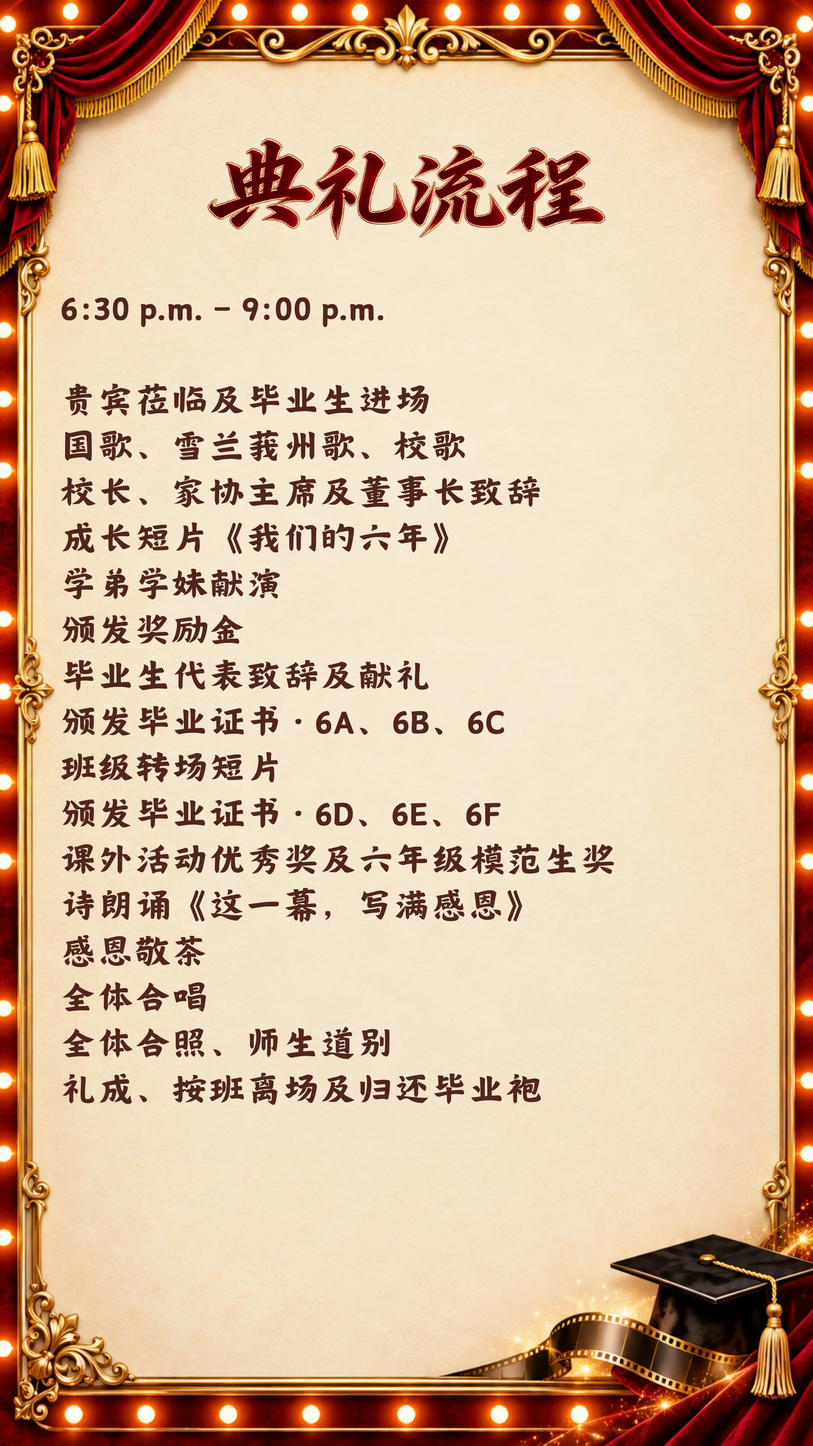
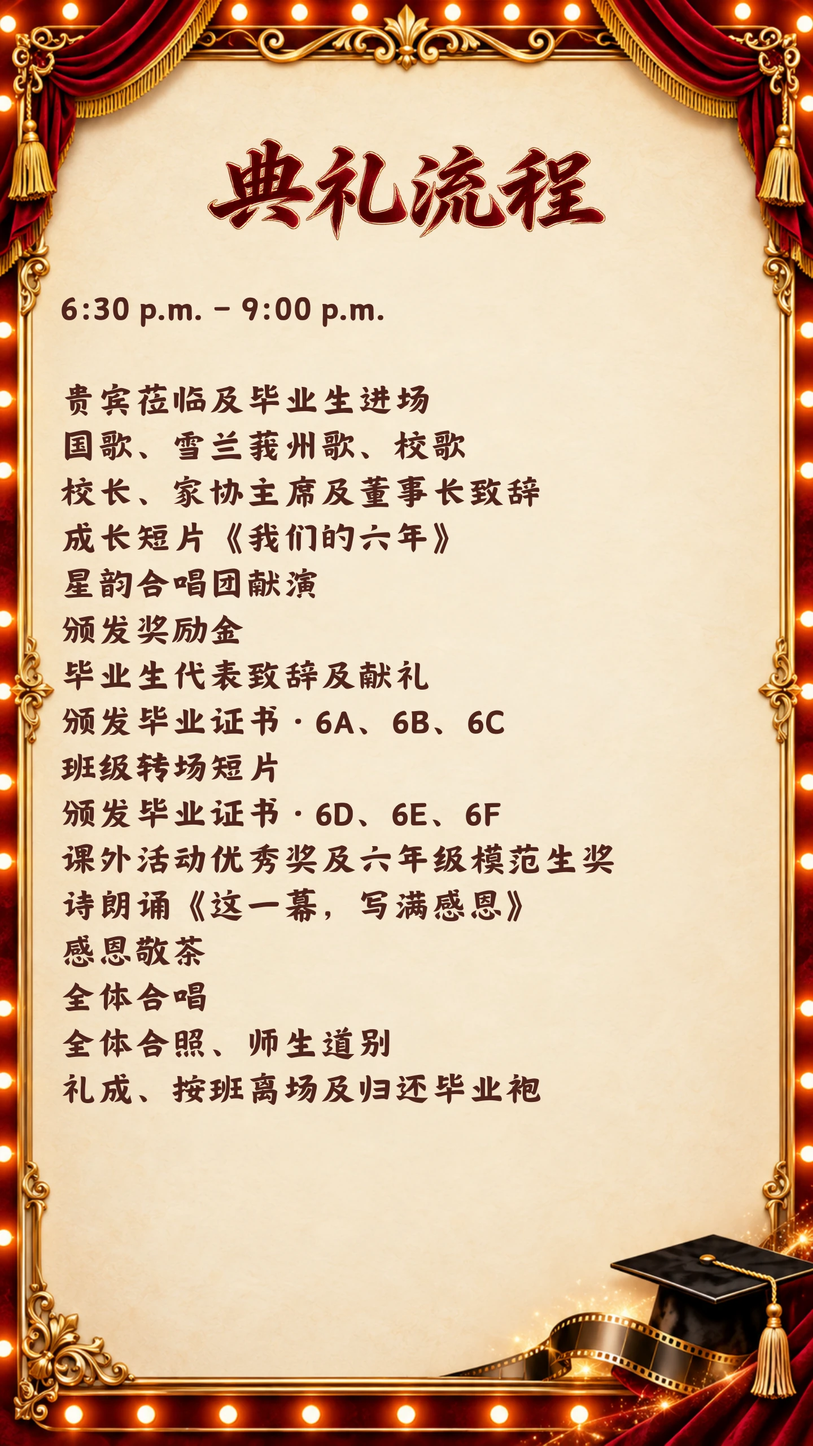
Update the ceremony programme with the choir name

diff --git a/index.html b/index.html
@@ -1,1 +1,1 @@
-<!doctype html><html lang="zh-Hans"><head><meta charset="UTF-8"><meta name="viewport" content="width=device-width,initial-scale=1,viewport-fit=cover"><meta name="theme-color" content="#100b0d"><title>下一幕，出发</title><link rel="stylesheet" href="style.css?v=9"></head><body><main class="stage" aria-label="毕业纪念册"><div id="book"></div><script id="page-data" type="application/json">[{"src": "assets/hq-1-1440.webp", "alt": "封面"}, {"src": "assets/hq-2-1440.webp?v=15", "alt": "典礼流程"}, {"src": "assets/hq-3-1440.webp?v=16", "alt": "6A毕业生名单"}, {"src": "assets/hq-4-1440.webp", "alt": "6B毕业生名单"}, {"src": "assets/hq-5-1440.webp", "alt": "6C毕业生名单"}, {"src": "assets/hq-6-1440.webp", "alt": "6D毕业生名单"}, {"src": "assets/hq-7-1440.webp", "alt": "6E毕业生名单"}, {"src": "assets/hq-8-1440.webp?v=17", "alt": "6F毕业生名单"}, {"src": "assets/hq-9-1440.webp", "alt": "致第七十四届毕业生"}]</script><div class="fx" aria-hidden="true"><svg class="magic" viewBox="0 0 100 178" preserveAspectRatio="none"><defs><filter id="magic-soft"><feGaussianBlur stdDeviation="1.2"/></filter></defs><g><path class="trail halo" pathLength="1000" d="M4 153 C36 183 109 149 96 100 C86 62 -3 67 9 29 C17 5 61 3 94 23"/><path class="trail core" pathLength="1000" d="M4 153 C36 183 109 149 96 100 C86 62 -3 67 9 29 C17 5 61 3 94 23"/><path class="sparks" pathLength="1000" d="M4 153 C36 183 109 149 96 100 C86 62 -3 67 9 29 C17 5 61 3 94 23"/></g></svg></div></main><nav aria-label="翻页与音乐"><button id="prev" aria-label="上一页"><svg viewBox="0 0 24 24"><path d="m14 6-6 6 6 6"/></svg></button><button id="music" aria-label="音乐已开启，等待首次点击播放；点击关闭；长按查看音乐来源" title="音乐开关 · 长按或右键查看来源" aria-pressed="true"><svg viewBox="0 0 24 24"><path d="M9 18V5l11-2v13M9 8l11-2"/><ellipse cx="6" cy="18" rx="3" ry="2"/><ellipse cx="17" cy="16" rx="3" ry="2"/><path class="muted-mark" d="m3 3 18 18"/></svg></button><button id="next" aria-label="下一页"><svg viewBox="0 0 24 24"><path d="m10 6 6 6-6 6"/></svg></button></nav><aside id="music-credit" hidden>In Your Arms — Kevin MacLeod<br><a href="https://incompetech.com/" target="_blank" rel="noopener">incompetech.com</a><br>Licensed under <a href="https://creativecommons.org/licenses/by/4.0/" target="_blank" rel="noopener">Creative Commons Attribution 4.0</a><br>Original recording, unchanged.</aside><audio id="soundtrack" src="assets/in-your-arms.mp3" preload="auto" loop></audio><script src="assets/page-flip.js?v=12"></script><script src="app.js?v=9"></script><script src="music.js?v=12"></script></body></html>
+<!doctype html><html lang="zh-Hans"><head><meta charset="UTF-8"><meta name="viewport" content="width=device-width,initial-scale=1,viewport-fit=cover"><meta name="theme-color" content="#100b0d"><title>下一幕，出发</title><link rel="stylesheet" href="style.css?v=9"></head><body><main class="stage" aria-label="毕业纪念册"><div id="book"></div><script id="page-data" type="application/json">[{"src": "assets/hq-1-1440.webp", "alt": "封面"}, {"src": "assets/hq-2-1440.webp?v=18", "alt": "典礼流程"}, {"src": "assets/hq-3-1440.webp?v=16", "alt": "6A毕业生名单"}, {"src": "assets/hq-4-1440.webp", "alt": "6B毕业生名单"}, {"src": "assets/hq-5-1440.webp", "alt": "6C毕业生名单"}, {"src": "assets/hq-6-1440.webp", "alt": "6D毕业生名单"}, {"src": "assets/hq-7-1440.webp", "alt": "6E毕业生名单"}, {"src": "assets/hq-8-1440.webp?v=17", "alt": "6F毕业生名单"}, {"src": "assets/hq-9-1440.webp", "alt": "致第七十四届毕业生"}]</script><div class="fx" aria-hidden="true"><svg class="magic" viewBox="0 0 100 178" preserveAspectRatio="none"><defs><filter id="magic-soft"><feGaussianBlur stdDeviation="1.2"/></filter></defs><g><path class="trail halo" pathLength="1000" d="M4 153 C36 183 109 149 96 100 C86 62 -3 67 9 29 C17 5 61 3 94 23"/><path class="trail core" pathLength="1000" d="M4 153 C36 183 109 149 96 100 C86 62 -3 67 9 29 C17 5 61 3 94 23"/><path class="sparks" pathLength="1000" d="M4 153 C36 183 109 149 96 100 C86 62 -3 67 9 29 C17 5 61 3 94 23"/></g></svg></div></main><nav aria-label="翻页与音乐"><button id="prev" aria-label="上一页"><svg viewBox="0 0 24 24"><path d="m14 6-6 6 6 6"/></svg></button><button id="music" aria-label="音乐已开启，等待首次点击播放；点击关闭；长按查看音乐来源" title="音乐开关 · 长按或右键查看来源" aria-pressed="true"><svg viewBox="0 0 24 24"><path d="M9 18V5l11-2v13M9 8l11-2"/><ellipse cx="6" cy="18" rx="3" ry="2"/><ellipse cx="17" cy="16" rx="3" ry="2"/><path class="muted-mark" d="m3 3 18 18"/></svg></button><button id="next" aria-label="下一页"><svg viewBox="0 0 24 24"><path d="m10 6 6 6-6 6"/></svg></button></nav><aside id="music-credit" hidden>In Your Arms — Kevin MacLeod<br><a href="https://incompetech.com/" target="_blank" rel="noopener">incompetech.com</a><br>Licensed under <a href="https://creativecommons.org/licenses/by/4.0/" target="_blank" rel="noopener">Creative Commons Attribution 4.0</a><br>Original recording, unchanged.</aside><audio id="soundtrack" src="assets/in-your-arms.mp3" preload="auto" loop></audio><script src="assets/page-flip.js?v=12"></script><script src="app.js?v=9"></script><script src="music.js?v=12"></script></body></html>
